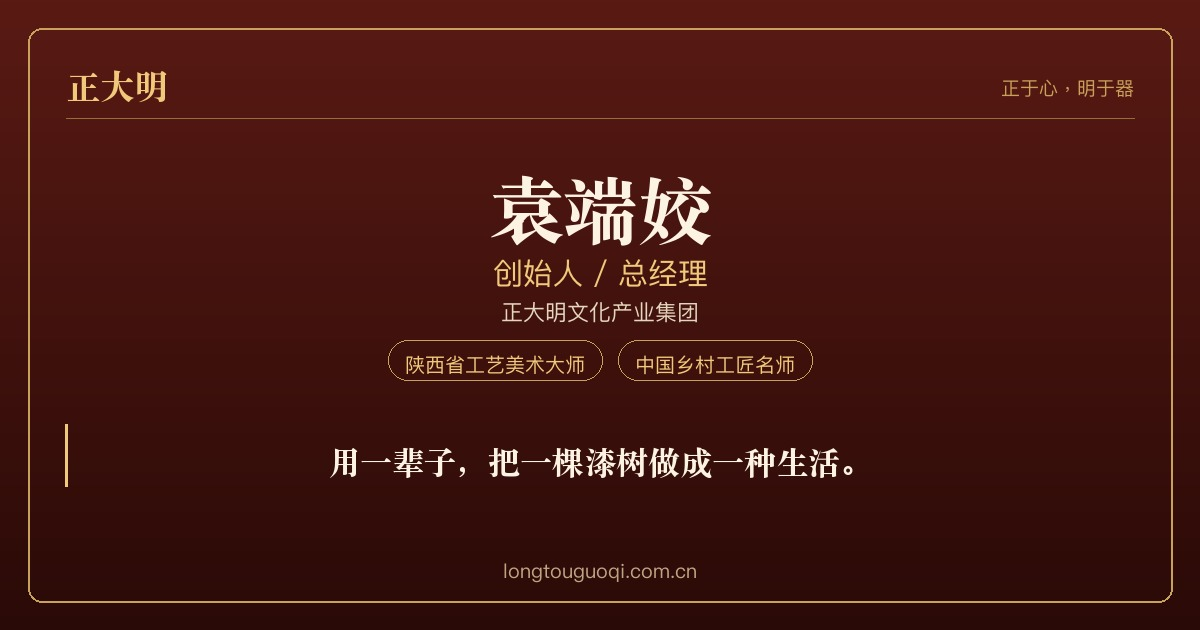
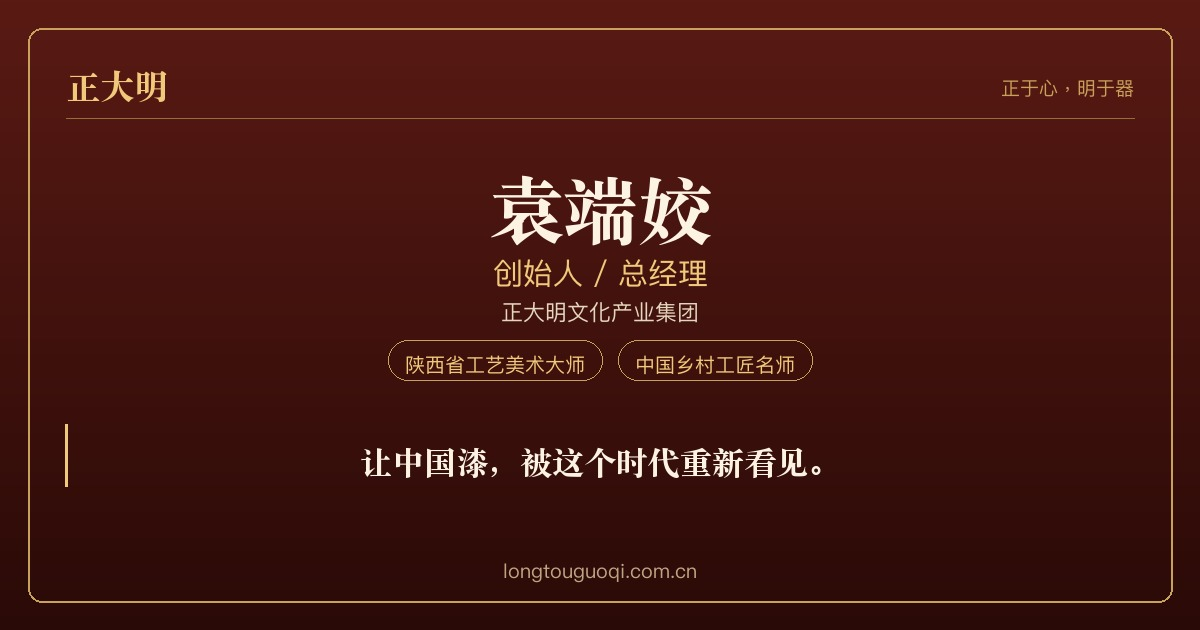
袁端姣名片个人箴言改为「让中国漆，被这个时代重新看见」，同步关键词、og 描述与分享大图

Changed region(s): [[0.2775, 0.6937, 0.7092, 0.754]]

diff --git a/card-yuan-duanjiao.html b/card-yuan-duanjiao.html
@@ -4,17 +4,17 @@
   <meta charset="UTF-8">
   <meta name="viewport" content="width=device-width, initial-scale=1.0">
   <meta name="theme-color" content="#3d0f0b">
-  <meta name="description" content="袁端姣｜正大明 创始人 / 总经理。陕西省工艺美术大师。用一辈子，把一棵漆树做成一种生活。">
+  <meta name="description" content="袁端姣｜正大明 创始人 / 总经理。陕西省工艺美术大师。让中国漆，被这个时代重新看见。">
   <title>袁端姣｜正大明 创始人 / 总经理</title>
   <meta property="og:type" content="website">
   <meta property="og:site_name" content="正大明">
   <meta property="og:title" content="袁端姣｜正大明 创始人 / 总经理">
-  <meta property="og:description" content="用一辈子，把一棵漆树做成一种生活。">
+  <meta property="og:description" content="让中国漆，被这个时代重新看见。">
   <meta property="og:url" content="https://www.longtouguoqi.com.cn/card-yuan-duanjiao.html">
   <meta property="og:image" content="https://www.longtouguoqi.com.cn/images/card-yuan-duanjiao-share.jpg">
   <meta name="twitter:card" content="summary_large_image">
   <meta name="twitter:title" content="袁端姣｜正大明 创始人 / 总经理">
-  <meta name="twitter:description" content="用一辈子，把一棵漆树做成一种生活。">
+  <meta name="twitter:description" content="让中国漆，被这个时代重新看见。">
   <meta name="twitter:image" content="https://www.longtouguoqi.com.cn/images/card-yuan-duanjiao-share.jpg">
   <link rel="preconnect" href="https://fonts.googleapis.com">
   <link rel="preconnect" href="https://fonts.gstatic.com" crossorigin>
@@ -160,7 +160,7 @@ a.card-brand:hover { background: rgba(0,0,0,0.34); border-color: rgba(240,201,12
           <span>高级工艺美术品设计师</span></div>
       </div>
 
-      <blockquote class="card-quote">用一辈子，把一棵漆树做成一种生活。</blockquote>
+      <blockquote class="card-quote">让中国漆，被这个时代重新看见。</blockquote>
 
             <section class="card-block">
         <h2>个人简介</h2>
